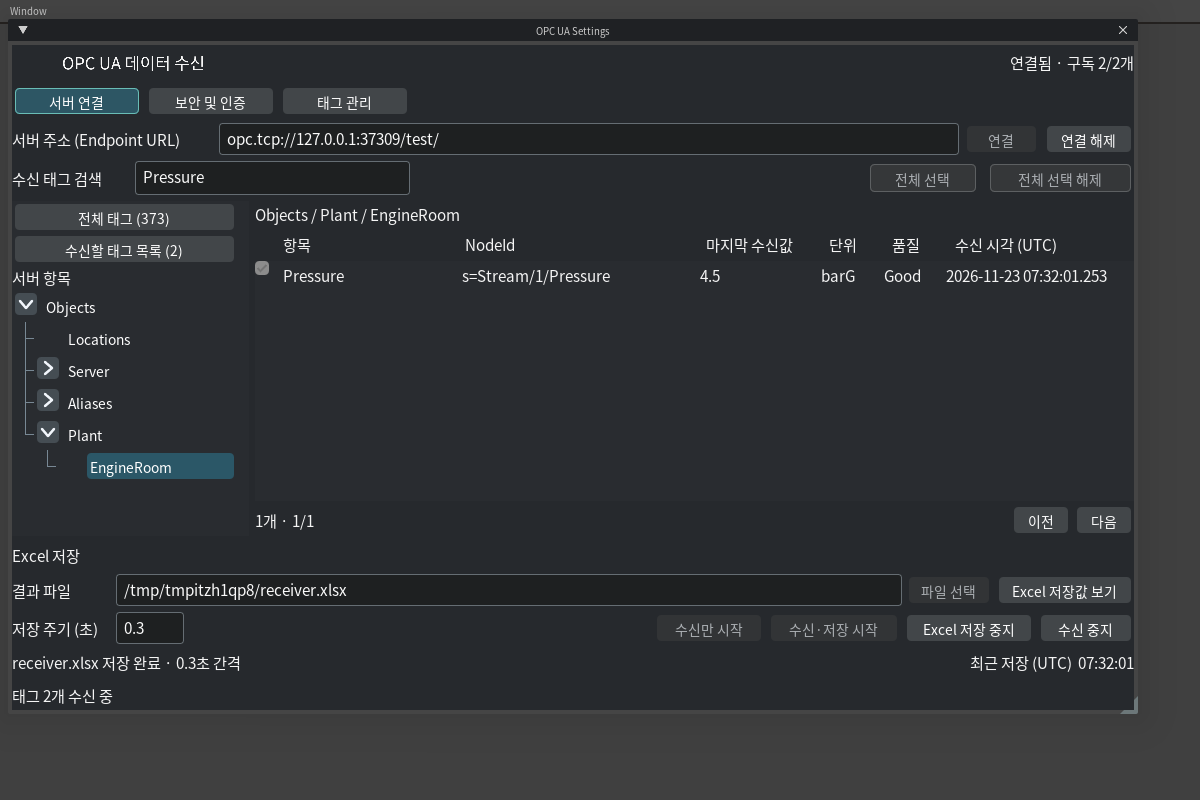
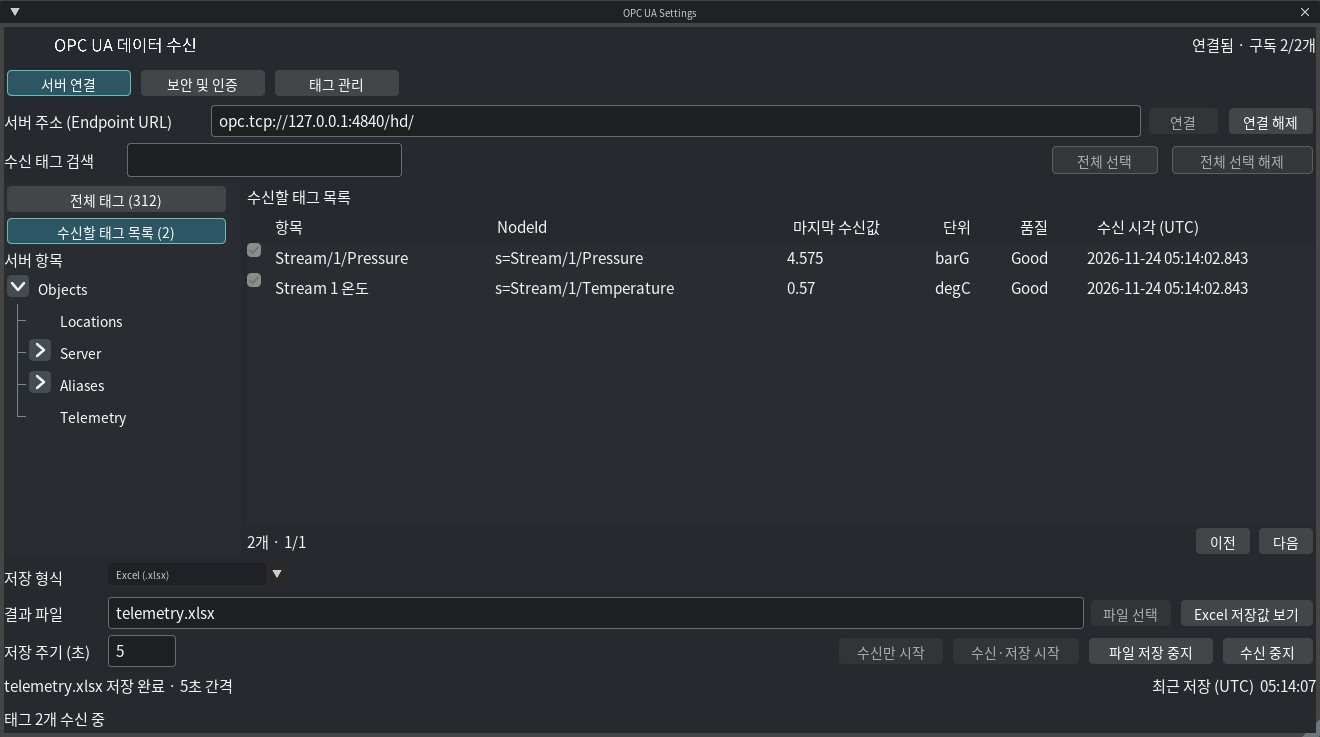
Refresh desktop and Kit receiver guides with live capture examples

diff --git a/opcua-test/receiver-guide.md b/opcua-test/receiver-guide.md
@@ -1,81 +1,59 @@
 # Windows·Ubuntu 수신기 GUI 가이드
 
-**시험 서버 주소**　`opc.tcp://218.52.73.150:4840/hd/`
+Windows와 Ubuntu의 조작 방법은 같다. 아래 화면은 Ubuntu에서 시험 서버의 Stream 1 압력과 온도를 수신한 예다. [수신기 다운로드 및 실행](../README.md)
 
-Windows와 Ubuntu 수신기의 화면과 조작 방법은 같다. 아래 예시에서는 목록에서 압력을 고르고, 온도는 주소를 입력해 추가한다. [수신기 다운로드 및 실행](../README.md)
+## 1. 서버에 연결하고 태그 고르기
 
-## 1. Endpoint로 서버에 연결
+1. **서버 연결** 탭의 **서버 주소 (Endpoint URL)**에 사용할 서버의 주소를 경로까지 입력하고 **연결**을 누른다. 화면에 보이는 `127.0.0.1`은 촬영에 사용한 시험 서버 주소다.
+2. 오른쪽 위에 **연결됨 · 수신 대기**가 뜨면 **서버 항목**에서 설비나 그룹을 누른다. 예시의 압력은 **Objects → Telemetry**에 있다.
+3. **수신 태그 검색**에 `Stream/1/`을 입력하고 `Stream/1/Pressure`를 체크한다. 왼쪽의 **수신할 태그 목록 (1)**을 누르면 선택한 압력만 보인다.
 
-**서버 연결** 탭의 **서버 주소 (Endpoint URL)**에 위 주소를 경로 `/hd/`까지 붙여 넣고 **연결**을 누른다. 시험 서버는 `None / Anonymous`를 허용하므로 기본 설정에서는 Endpoint 하나만 입력하면 된다.
+![Telemetry에서 Stream/1/을 검색하고 압력 한 개를 선택한 Ubuntu 수신기](guide-images/browse.png)
 
-오른쪽 위에 **연결됨 · 수신 대기**가 뜨면 왼쪽 **서버 항목**에서 `Objects`를 펼친다. **수신할 태그 목록 (0)**의 숫자는 선택한 태그 수다.
-
-![연결 직후. 오른쪽 위에는 연결됨 · 수신 대기, 왼쪽에는 현재 서버에서 읽은 Objects 하위 그룹이 보인다.](guide-images/connected.png)
+**전체 선택**과 **전체 선택 해제**는 현재 그룹의 검색 결과에 적용된다. 다른 그룹의 태그를 찾으려면 먼저 왼쪽에서 그룹을 바꾼다. 검색어를 지우면 그 그룹의 태그가 다시 보인다.
 
 <details>
-<summary>보안 정책이나 사용자 인증을 확인하려면</summary>
+<summary>인증서나 계정이 필요한 서버에 연결할 때</summary>
 
-**보안 및 인증** 탭의 왼쪽이 보안 정책, 오른쪽이 사용자 인증이다. 아래는 시험 서버 설정이다. 다른 서버가 계정이나 인증서를 요구하면 그 서버 담당자가 지정한 모드·인증 방식에 맞춰 입력한다. 인증서·개인 키는 **찾아보기**로 파일을 고른다. 설정을 바꿀 때는 연결을 해제한 뒤 다시 연결한다.
+연결하기 전에 **보안 및 인증** 탭에서 서버의 보안 정책과 사용자 인증 방식을 선택한다. 인증서와 개인 키는 **찾아보기**로 고른다. 이미 연결했다면 **연결 해제** 후 설정을 바꾼다. 아래 시험 서버는 기본값인 `None`과 `Anonymous`를 허용한다.
 
-![보안 및 인증 탭. 시험 서버 설정은 보안 정책 None, 사용자 인증 Anonymous다.](guide-images/security.png)
+![보안 및 인증 탭의 보안 정책, 인증서, 사용자 인증 입력칸](guide-images/security.png)
 
 </details>
 
-## 2A. 서버에서 조회한 태그를 체크하는 방법
+## 2. 주소를 아는 태그 직접 추가하기
 
-1. **서버 연결** 탭 왼쪽에서 **Objects → Telemetry**를 누른다. 오른쪽 표에 해당 그룹에서 조회한 태그가 나타난다. 다른 서버에서는 그 서버의 설비·그룹 이름을 고른다.
-2. **수신 태그 검색**에 태그 이름이나 NodeId의 일부를 입력한다. 선택한 그룹 안에서 일치하는 행만 남는다. 아래 예시는 `Stream/1/`로 찾은 뒤 `Stream/1/Pressure` 행 왼쪽의 **체크박스**를 누른 화면이다. 왼쪽 버튼이 **수신할 태그 목록 (1)**로 바뀐다.
-3. 압력만 받으려면 **4. 수신·저장 시작**으로 넘어간다.
+목록에서 필요한 태그를 모두 골랐다면 바로 저장을 시작해도 된다. 온도를 주소로 추가하려면 **태그 관리** 탭을 연다.
 
-![Telemetry를 조회한 뒤 Stream 1 압력 한 개만 체크한 화면. 마지막 수신값은 수신 시작 전까지 비어 있다.](guide-images/browse.png)
-
-**검색 결과가 비어 있으면** 왼쪽에서 어떤 목록을 열었는지 확인한다. `Aliases`에서 압력을 검색했다면 **Telemetry**를 누른다. **수신할 태그 목록**을 열고 검색하면 이미 선택한 태그 안에서 찾는다. 검색칸의 **×**를 누르면 현재 목록의 모든 행이 다시 보인다.
-
-**전체 선택 / 전체 선택 해제**는 현재 표에 표시된 행에 적용된다. 조회한 태그의 Namespace URI는 **NodeId** 열의 값 위에 마우스를 올리면 볼 수 있다.
-
-## 2B. Namespace URI와 NodeId를 직접 입력하는 방법
-
-태그 주소를 알고 있으면 서버에 연결한 뒤 **태그 관리** 탭에서 바로 등록한다. 해당 변수에 대한 읽기 권한이 필요하다.
-
-| 입력칸 | Stream 1 온도 예시 | 용도 |
-|---|---|---|
-| Namespace URI | `urn:hd:opcua:test:v1` | 태그가 속한 네임스페이스 |
-| NodeId | `s=Stream/1/Temperature` | 해당 변수의 식별자. 문자열 식별자 접두사 `s=`까지 입력 |
-| 표시명 | `Stream 1 온도` | 선택 사항. 비워 두면 서버의 표시명 사용 |
-| 단위 | `degC` | 선택 사항. 비워 두면 서버가 제공하는 단위를 사용하며, 서버에도 없으면 빈칸 |
-
-**등록**을 누르면 위쪽 **등록한 태그**에 온도가 나타난다. 같은 서버에 다시 접속해도 이 목록은 남는다.
-
-![등록 직후. 위쪽 등록한 태그 표에 온도 행이 생기고, 두 표 사이에 수신할 태그 목록에 추가 버튼이 있다.](guide-images/register.png)
-
-위쪽 표에서 온도 행을 고르고 **↓ 수신할 태그 목록에 추가**를 누른다. 아래쪽 표에서 앞서 선택한 압력과 방금 추가한 온도를 확인한다.
-
-![목록에 추가한 뒤. 위쪽에는 직접 등록한 온도, 아래쪽에는 수신 대상으로 선택한 온도와 압력이 보인다.](guide-images/add-to-list.png)
-
-## 3. 선택한 태그 확인 및 변경
-
-**태그 관리**의 아래쪽 표와 **서버 연결 → 수신할 태그 목록**은 같은 목록이다. 하나의 변수를 두 방법으로 골라도 한 번만 수신한다.
-
-| 하고 싶은 일 | 조작 |
+| 입력칸 | 예시 |
 |---|---|
-| 이번 수신에서만 빼기 | 아래쪽 행을 선택하고 **제외**를 누른다. 위쪽 등록 정보는 보관된다. |
-| 저장해 둔 등록 정보 지우기 | 위쪽 행을 선택하고 **등록 삭제**를 누른다. 이미 이번 수신 목록에 넣은 태그까지 빼려면 아래에서도 **제외**한다. |
-| 수신 중에 대상을 바꾸기 | **서버 연결 → 수신 중지**를 누른 뒤 목록을 고치고 다시 시작한다. |
+| Namespace URI | `urn:hd:opcua:test:v1` |
+| NodeId | `s=Stream/1/Temperature` |
+| 표시명 | `Stream 1 온도` |
+| 단위 | 빈칸으로 두면 서버에서 읽은 `degC`를 쓴다. |
 
-## 4. 수신·저장 시작
+**등록**을 누르고 위쪽 **등록한 태그**에서 온도 행을 선택한다. **↓ 수신할 태그 목록에 추가**를 누르면 아래쪽에 압력과 온도가 함께 나타난다. 등록한 주소는 같은 서버에 다시 접속할 때도 쓸 수 있다.
 
-1. **서버 연결** 탭으로 돌아와 **수신할 태그 목록**을 눌러 대상과 개수를 확인한다.
-2. **파일 저장 → 저장 형식**을 고른 뒤 **파일 선택**을 누른다. **Excel (.xlsx)**은 통합문서의 결과 시트를 갱신한다. **USD (.usda)**는 태그별 최신값을 독립된 데이터 파일에 쓴다. 새 파일 또는 같은 서버에서 수신기로 만든 USDA를 지정한다.
-3. **저장 주기 (초)**를 정하고 **수신·저장 시작**을 누른다. 기본값은 Excel 5초, USD 1초다.
-4. 화면에는 새 샘플이 들어올 때마다 값이 표시되고, 파일은 지정한 주기마다 갱신된다. **마지막 저장 성공 (UTC)**에서 기록 시각을 확인한다. USDA를 읽는 Kit에서는 연결이 끊겼을 때 마지막 값과 수신 시각, `Stale` 상태를 함께 확인할 수 있다. [USDA 데이터 형식](../exts/hd.opcua.receiver/docs/README.md#usda-데이터-형식)
+![위쪽에는 등록한 온도, 아래쪽 수신 목록에는 압력과 온도가 담긴 태그 관리 화면](guide-images/register.png)
 
-![수신 중인 온도와 압력의 값, 단위, 품질 Good, 수신 시각. 아래에는 결과 파일과 저장 주기 5초, 마지막 저장 성공 시각이 표시된다.](guide-images/receiving.png)
+이번 수신에서만 뺄 때는 아래쪽 행을 선택하고 **제외**를 누른다. **등록 삭제**는 위쪽에 보관한 등록 정보를 지운다.
 
-| 버튼 | 동작 |
-|---|---|
-| Excel 저장값 보기 | 마지막으로 저장한 내용을 수신기 미리보기에서 확인한다. Windows에 Microsoft Excel이 설치돼 있으면 별도 보기 창도 열 수 있다. |
-| 파일 저장 중지 | 파일 저장만 멈춘다. 태그 수신을 계속하면서 다른 형식을 선택할 수 있다. |
-| 수신 중지 | 태그 구독과 파일 저장을 멈추고 서버 연결은 유지한다. 표에는 마지막 수신값이 남는다. |
-| 연결 해제 | 수신과 저장을 종료하고 서버 접속을 끊는다. |
+## 3. Excel로 저장하기
 
-**화면은 바뀌는데 Excel이 그대로일 때**는 저장 주기와 마지막 저장 성공 시각을 확인한다. Windows에서 결과 파일을 Excel로 직접 열어 두어 잠겼다면 닫는다. 수신기는 다음 주기에 다시 저장한다.
+**서버 연결 → 수신할 태그 목록**에서 대상을 확인한다. 아래 **파일 저장**에서 **Excel (.xlsx)**을 고르고 **파일 선택**으로 결과 파일을 지정한다. **저장 주기 (초)**의 기본값은 `5`다. **수신·저장 시작**을 누른다.
+
+![압력과 온도를 수신하면서 telemetry.xlsx를 5초마다 저장하는 화면](guide-images/receiving.png)
+
+표에는 마지막 수신값과 실제 수신 시각이 표시된다. 파일에 쓴 시각은 아래 **마지막 저장 성공 (UTC)**에 표시된다. **Excel 저장값 보기**를 누르면 마지막으로 저장한 시트를 수신기 안에서 볼 수 있다. Windows에 Excel이 설치돼 있으면 미리보기에서 **Microsoft Excel 창으로 보기**도 쓸 수 있다.
+
+## 4. USDA로 저장하기
+
+처음부터 USDA로 저장하려면 **저장 형식**에서 **USD (.usda)**를 고른다. Excel 저장 중이라면 먼저 **파일 저장 중지**를 누른다. 이때 화면에는 값이 계속 들어온다.
+
+**파일 선택**에서 `telemetry.usda`처럼 수신 데이터용 파일을 지정하고 **수신·저장 시작**을 누른다. 기본 저장 주기는 `1`초다. 새 파일을 만들거나, 같은 서버에 대해 수신기가 만든 USDA를 다시 쓸 수 있다.
+
+![USD (.usda)를 선택한 파일 저장 영역. telemetry.usda 저장 완료, 1초 간격, 태그 2개가 표시된다.](guide-images/usda.png)
+
+다른 Kit 앱은 이 파일에서 태그별 최신값과 단위, 품질, 수신 시각을 읽을 수 있다. 서버 연결이 끊기면 마지막 값에는 `Stale`이 기록된다. [USDA 데이터 형식](../exts/hd.opcua.receiver/docs/README.md#usda-데이터-형식)
+
+태그를 바꿀 때는 **수신 중지**를 누른 뒤 목록을 고친다. 표에는 마지막 값이 남고 서버 연결은 유지된다. 작업을 마치고 접속을 끊으려면 **연결 해제**를 누른다.

diff --git a/exts/hd.opcua.receiver/docs/README.md b/exts/hd.opcua.receiver/docs/README.md
@@ -1,46 +1,60 @@
-# OPC UA Receiver for Omniverse Kit
+# Omniverse Kit 확장 사용 가이드
 
-## 등록
+USD Composer 등 Python 3.12를 내장한 x86-64용 GUI Kit 앱에서 사용한다. 씬을 열기 전에도 서버에 연결해 값을 보거나 파일로 저장할 수 있다.
 
-Python 3.12를 내장한 x86-64용 GUI Kit 앱에서 등록한다.
+## 확장 등록
 
-1. Kit 확장 ZIP의 압축을 풀거나 `git clone https://github.com/ljw-8888/opcua-receiver.git`으로 저장소를 받는다.
-2. **Window → Extensions**를 열고 검색 경로에 `exts` 폴더를 추가한다.
-3. **OPC UA Receiver**를 찾아 켠다. 다음 실행부터 자동으로 열려면 **Autoload**를 켠다. 닫은 설정 창은 **Window → OPC UA Settings**에서 다시 연다.
+1. 배포 ZIP의 압축을 풀거나 `git clone https://github.com/ljw-8888/opcua-receiver.git`으로 저장소를 받는다.
+2. **Window → Extensions**에서 검색 경로에 `exts` 폴더를 추가하고 **OPC UA Receiver**를 켠다.
+3. **OPC UA Settings** 창이 열린다. 닫은 창은 **Window → OPC UA Settings**에서 다시 연다. Kit를 시작할 때마다 사용하려면 **Autoload**를 켠다.
 
-터미널에서 Kit를 실행할 때는 실행 명령 끝에 다음 옵션을 붙인다. 경로는 내려받은 저장소 위치에 맞춘다.
+터미널에서 실행할 때는 Kit 실행 명령 끝에 다음 옵션을 붙인다. 경로는 압축을 풀거나 저장소를 받은 위치에 맞춘다.
 
 ```text
 --ext-folder "/absolute/path/to/opcua-receiver/exts" --enable hd.opcua.receiver
 ```
 
-처음 켜면 확장이 필요한 Python 패키지를 Kit 캐시에 푼다. 한글 글꼴은 Kit가 시작할 때 불러온다. 설정 창이 영어로 열리면 **Autoload**를 켜고 Kit를 다시 시작한다.
+처음 켜면 필요한 Python 패키지를 Kit 캐시에 푼다. 설정 창이 영어로 열리면 **Autoload**를 켜고 Kit를 다시 시작해 한글 글꼴을 불러온다.
 
 ## 서버 연결과 태그 선택
 
-**서버 연결** 탭에 Endpoint URL을 입력하고 **연결**을 누른다. 기본 설정은 `None / Anonymous`다. 보안 정책, 인증서·개인 키, Application URI, 계정은 접속 전에 **보안 및 인증** 탭에서 설정한다.
+**서버 연결** 탭에 사용할 서버의 Endpoint URL을 입력하고 **연결**을 누른다. 아래 화면은 Kit와 같은 컴퓨터에서 시험 서버를 실행한 예다. 인증서나 계정이 필요한 서버는 접속 전에 **보안 및 인증**에서 보안 정책과 인증 방식을 설정한다.
 
-연결하면 왼쪽 **서버 항목**에 `Objects` 아래 그룹이 나타난다. 그룹 이름 옆 화살표로 하위 그룹을 펼치고, 그룹을 눌러 오른쪽 표에서 받을 태그를 고른다. 표 위에 현재 그룹의 경로가 보인다.
+![Kit의 보안 및 인증 탭. 시험 서버의 보안 정책은 None, 사용자 인증은 Anonymous다.](security.png)
 
-이름이나 NodeId로 검색한 뒤 **전체 선택**을 누르면 다른 페이지에 있는 검색 결과까지 함께 선택한다. **전체 선택 해제**도 같은 범위에 적용된다. 서버 전체에서 찾으려면 왼쪽의 **전체 태그**를 누른다. 이 목록의 **전체 선택**은 태그 조회가 끝나면 켜진다.
+연결되면 왼쪽 **서버 항목**에서 화살표를 눌러 하위 그룹을 펼친다. 그룹 이름을 누르면 표 위에 현재 경로가 표시된다. 아래 화면에서는 **Objects → Telemetry**를 열고 `Stream/1/`을 검색한 뒤 `Stream/1/Pressure`를 체크했다.
 
-![EngineRoom 그룹에서 Pressure를 검색한 수신 화면](receiving.png)
+![Objects / Telemetry 그룹의 검색 결과에서 압력을 선택한 Kit 설정 창](browse.png)
 
-태그 주소를 알고 있으면 **태그 관리**에서 Namespace URI와 NodeId를 입력하고 **등록**을 누른다. 표시명과 단위도 여기서 지정한다. 등록한 태그를 수신 목록에 추가하고, 뺄 때는 수신 목록에서 체크를 푼다. 등록 정보는 서버 주소별로 저장된다.
+**전체 선택**은 현재 그룹의 검색 결과를 다른 페이지까지 모두 선택한다. **전체 선택 해제**도 같은 범위에 적용된다. 서버 전체에서 찾을 때는 왼쪽의 **전체 태그**를 누른다. 이 목록에서는 태그 조회가 끝나면 **전체 선택**을 쓸 수 있다.
+
+### 태그 주소로 추가하기
+
+**태그 관리**에서 Namespace URI와 NodeId를 입력하고 **등록**을 누른다. 아래 온도의 주소는 `urn:hd:opcua:test:v1`, `s=Stream/1/Temperature`다. 표시명은 `Stream 1 온도`로 지정했고, 단위는 비워 두어 서버가 보낸 `degC`를 쓴다.
+
+위쪽 등록 목록에서 온도를 체크한 뒤 **선택한 등록 태그를 수신 목록에 추가**를 누른다. 아래쪽에 압력과 온도가 함께 보인다. 이번 수신에서 빼려면 아래쪽 체크를 푼다. 위쪽 등록 정보는 서버 주소별로 보관된다.
+
+![Kit 태그 관리 탭. 위쪽의 등록한 온도를 아래쪽 압력과 온도 수신 목록에 추가한 화면](register.png)
 
 ## 실시간 수신과 파일 저장
 
-**수신만 시작**을 누르면 실시간 값·단위·품질·수신 시각이 표에 나타난다. 저장하려면 **저장 형식**을 고르고 결과 파일과 저장 주기를 지정한 뒤 **수신·저장 시작**을 누른다.
+**서버 연결** 탭의 **수신만 시작**을 누르면 파일을 지정하지 않고도 값·단위·품질·수신 시각을 볼 수 있다. 파일에도 쓰려면 **저장 형식**, **결과 파일**, **저장 주기 (초)**를 정하고 **수신·저장 시작**을 누른다.
 
-- **Excel (.xlsx)**의 기본 주기는 5초다. 태그별 최신값을 저장하고, HYSYS에 대응하는 태그는 `HYSYS` 시트에도 기록한다. **Excel 저장값 보기**에서 마지막 저장값을 확인한다.
-- **USD (.usda)**의 기본 주기는 1초다. 새 파일이나 같은 서버에서 수신기로 만든 데이터 파일을 선택한다. 수신기는 선택한 태그의 최신 상태를 이 파일에 기록한다. 다른 컴퓨터에서도 읽으려면 공유 폴더를 지정한다.
+### Excel 통합문서
 
-| 조작 | 결과 |
-|---|---|
-| 파일 저장 중지 | 파일 저장을 멈추고 화면에는 새 값이 계속 들어온다. 다른 저장 형식을 선택할 수 있다. |
-| 수신 중지 | 수신과 저장을 멈춘다. 서버 연결과 표의 마지막 값은 유지된다. |
-| 연결 해제 | 수신과 저장을 멈추고 서버 연결을 끊는다. |
-| 설정 창 닫기 | 수신을 계속한다. |
+**Excel (.xlsx)**을 고르고 **파일 선택**에서 통합문서를 지정한다. 기본 저장 주기는 5초다. 아래 화면에서는 압력 `4.575 barG`와 온도 `0.57 degC`를 받아 `telemetry.xlsx`에 저장했다. 각 행의 **수신 시각 (UTC)**은 태그 값을 받은 시각이고, 오른쪽 아래 **최근 저장 (UTC)**은 파일을 갱신한 시각이다.
+
+![Kit에서 압력과 온도를 구독하며 telemetry.xlsx를 5초 간격으로 저장한 화면](receiving.png)
+
+**Excel 저장값 보기**를 누르면 마지막으로 저장한 시트를 확인할 수 있다. 태그별 값은 `최신값` 시트에, HYSYS 항목과 연결된 값은 `HYSYS` 시트에도 기록된다.
+
+### USDA 데이터 파일
+
+**USD (.usda)**를 고르고 **파일 선택**에서 수신 데이터용 파일을 지정한다. 새 파일을 만들거나 같은 서버의 수신 데이터를 담은 USDA를 다시 사용할 수 있다. **수신·저장 시작**을 누르면 기본 1초마다 태그별 최신값을 기록한다. 설비 모델이 들어 있는 원본 USD는 그대로 두고, 다른 Kit 앱에서 이 데이터 파일을 열어 값을 읽는다.
+
+![Kit의 USDA 저장 설정과 telemetry.usda 저장 완료 상태. 저장 주기는 1초다.](usda.png)
+
+Excel과 USDA 사이를 바꿀 때는 **파일 저장 중지**를 누르고 형식과 파일을 다시 고른다. 화면의 수신은 계속된다. 태그를 바꾸려면 **수신 중지**, 서버 접속까지 끝내려면 **연결 해제**를 누른다. 설정 창만 닫으면 수신은 계속된다.
 
 ## USDA 데이터 형식
 
